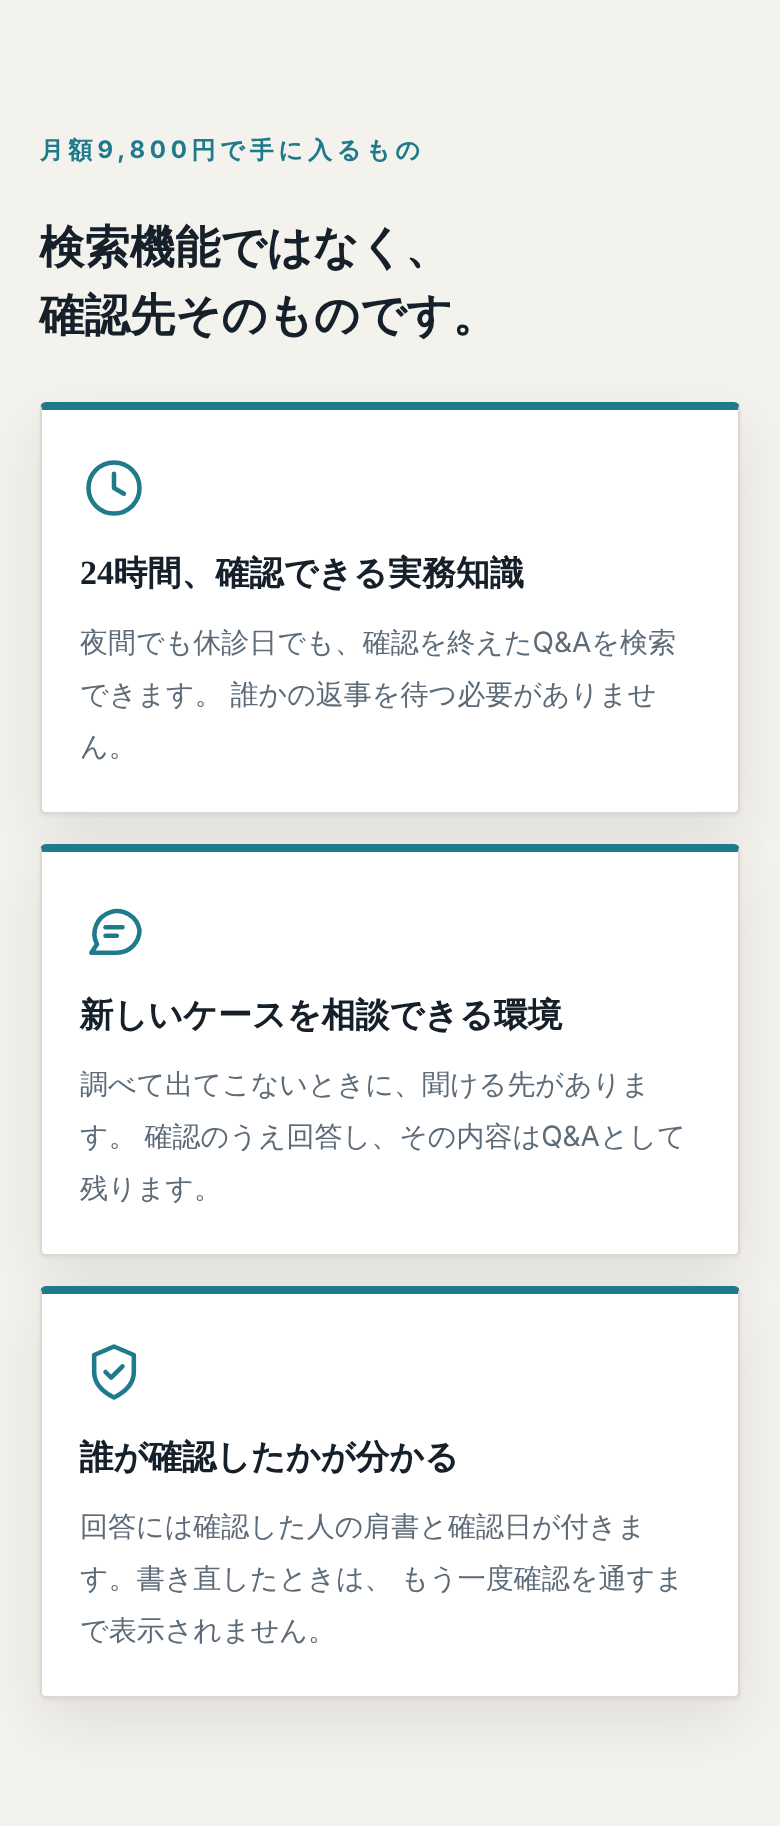
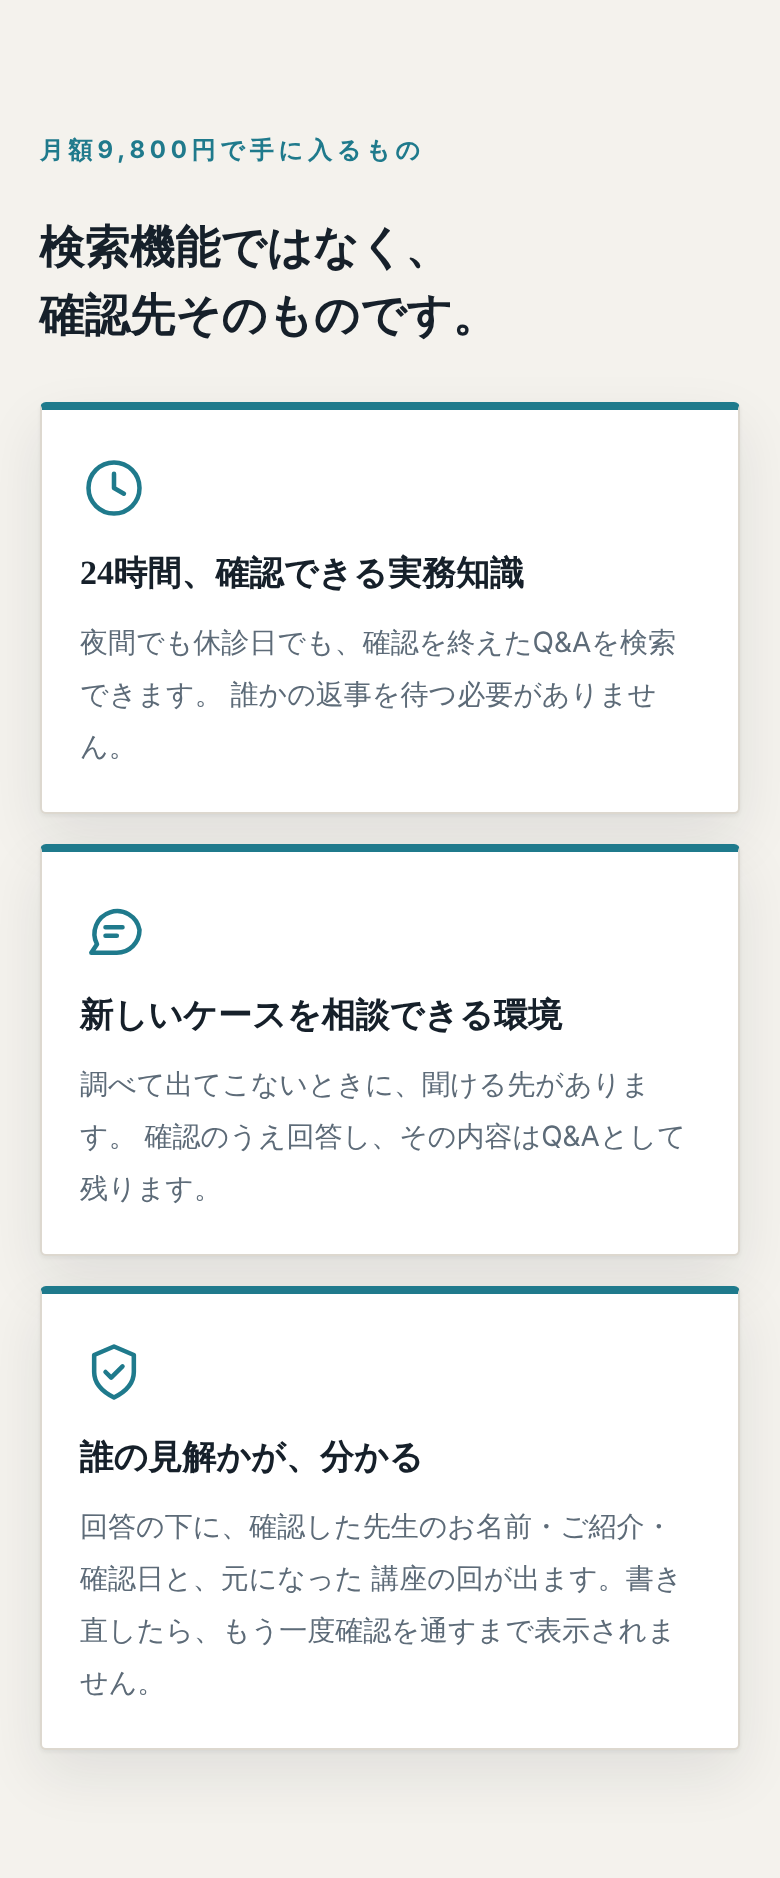
design+docs: 監修者の表示と、専門家のご紹介を事実にもとづいて書き分けた
元の講座が行政書士の先生の話であること、紹介をすでに行っていること、
手数料を受け取っていないことが分かったため、記載を改めた。

募集ページ（design/lp-preview.html）:
- 回答の下に監修者のプロフィールを出す形にした。お名前・肩書・事務所名・
  ご紹介・「✓ この回答を確認済み」・出典（講座の回と話した先生）・確認日
- 専門家とのつながりの節を3つに分けた。「いま行っていること（ご紹介・
  手数料なし・契約は先生と直接）」と「これから（未確定）」2件
- 手数料を受け取らないことを緑の枠で明示。これは信頼の材料であると同時に、
  弁護士法27条の論点を避ける構造でもある
- FAQに「回答は誰が書いているのですか」を追加
- 価値の3つめを「誰の見解かが、分かる」に変更

docs/legal-todo.md:
- 事実として確認できた3点と、未確定の2点を分けて記載
- 出典と確認者を必ず分けること。元動画が行政書士の話であることと、
  その先生が回答文を確認したことは別。後者でなければ確認済みと表示しない
- 既存の answer_version / approved_version の仕組みが、書き直し後の
  再確認をすでに強制していることを記載
- 監修者表示に必要なシステム側の追加5件（本体は未着手）

本体・決済は未変更。

Claude-Session: https://claude.ai/code/session_01XxX8KomyP5X86hhJgAnHyP

Changed region(s): [[0.0308, 0.0624, 0.9538, 0.9053]]

diff --git a/jiko-desk/design/lp-preview.html b/jiko-desk/design/lp-preview.html
@@ -173,6 +173,23 @@ h1 u, h2 u, h3 u, .turn u, .lead u { display: inline-block; text-decoration: non
 .screen-cap { font-size: 12px; color: var(--on-navy-s); text-align: center;
   margin-top: 13px; line-height: 1.7; }
 
+/* 回答の下に出す監修者。ネット記事の著者プロフィールと同じ役割 */
+.byline { margin-top: 13px; padding-top: 13px; border-top: 1px solid var(--rule);
+  display: flex; gap: 12px; align-items: flex-start; }
+.byline .av { flex: 0 0 46px; width: 46px; height: 46px; border-radius: 50%;
+  background: var(--tab); border: 1px solid var(--rule); display: grid; place-items: center; }
+.byline .av svg { width: 22px; height: 22px; stroke: var(--ink-soft); fill: none; stroke-width: 1.5; }
+.byline .who { flex: 1; min-width: 0; }
+.byline .nm { font-family: var(--mincho); font-size: 15px; font-weight: 700; line-height: 1.4; }
+.vchk { display: inline-block; font-size: 11.5px; font-weight: 700; color: var(--ok);
+  border: 1.5px solid var(--ok); border-radius: 3px; padding: 2px 8px; margin-top: 7px;
+  letter-spacing: .03em; white-space: nowrap; }
+.byline .of { font-size: 11.5px; color: var(--ink-soft); margin-top: 3px; }
+.byline .pr { font-size: 12.5px; color: var(--ink-soft); line-height: 1.75; margin-top: 7px; }
+.srcline { margin-top: 11px; font-size: 11.5px; color: var(--ink-soft); line-height: 1.75;
+  background: var(--paper); border-radius: 6px; padding: 9px 11px; }
+.srcline b { color: var(--ink); font-weight: 700; }
+
 /* 近いQ&Aの一覧。回答本文は出さず、質問だけをリンクで見せる */
 .rel { display: grid; gap: 8px; }
 .rel-h { font-size: 11.5px; font-weight: 700; letter-spacing: .1em; color: var(--ink-soft);
@@ -228,7 +245,12 @@ h1 u, h2 u, h3 u, .turn u, .lead u { display: inline-block; text-decoration: non
 
 .plan-item + .plan-item { margin-top: 24px; padding-top: 22px; border-top: 1px solid var(--rule); }
 .plan-item .pnum { display: inline-block; font-size: 11.5px; font-weight: 700;
-  letter-spacing: .14em; color: var(--teal); margin-bottom: 7px; }
+  letter-spacing: .1em; color: var(--todo); border: 1px solid var(--todo);
+  border-radius: 3px; padding: 2px 9px; margin-bottom: 9px; }
+.plan-item .pnum.now { color: var(--ok); border-color: var(--ok); }
+.plan-item .nofee { background: rgba(44,107,47,.07); border-left: 3px solid var(--ok);
+  border-radius: 0 6px 6px 0; padding: 12px 13px; margin-top: 12px; }
+.plan-item p b { color: var(--ink); }
 .plan-item h3 { font-size: 18px; line-height: 1.55; margin-bottom: 10px; }
 .plan-item p { font-size: 14.5px; line-height: 1.9; }
 .plan-item p + p { margin-top: 11px; }
@@ -388,7 +410,8 @@ footer .co { font-size: 12px; }
           <div>
             <h3><u>確認を終えた回答が、</u><u>結論から出る</u></h3>
             <p>長い解説を読み進める必要はありません。結論が先に来ます。
-               確認を終えたものだけが出ます。誰が確認したかも表示されます。</p>
+               確認を終えたものだけが出ます。回答の下には、確認した先生のお名前と
+               ご紹介、そして元になった講座の回が出ます。</p>
           </div>
         </div>
         <div class="screen">
@@ -398,8 +421,19 @@ footer .co { font-size: 12px; }
               <div class="qt">保険会社から「そろそろ打ち切り」と言われました。すぐに施術をやめるべきですか。</div>
               <div class="at">保険会社の打ち切りの連絡は、施術の必要性の医学的な判断ではありません。
                 まず主治医の見解を確認し、必要であれば施術継続の理由を書面で…</div>
-              <span class="stamp"><svg viewBox="0 0 24 24"><path d="M4 12.5l5 5L20 6.5"/></svg>行政書士 確認済み</span>
-              <div class="when">〈確認者名〉／確認日 2026-10-02</div>
+              <div class="byline">
+                <div class="av"><svg viewBox="0 0 24 24"><circle cx="12" cy="9" r="3.4"/><path d="M5 20a7 7 0 0 1 14 0"/></svg></div>
+                <div class="who">
+                  <div class="nm">〈確認した先生のお名前〉</div>
+                  <div class="of">行政書士／〈事務所名〉</div>
+                  <div><span class="vchk">✓ この回答を確認済み</span></div>
+                  <div class="pr">〈この先生の紹介文。交通事故分野の経歴を2行程度〉</div>
+                </div>
+              </div>
+              <div class="srcline">
+                <b>出典</b> 交通事故実務講座 第12回（〈話した先生のお名前〉）<br>
+                <b>確認日</b> 2026-10-02
+              </div>
             </div>
             <div class="q-field ghost">
               <svg viewBox="0 0 24 24"><rect x="2.5" y="5" width="14" height="14" rx="2.5"/><path d="M16.5 10l5-3v10l-5-3z"/></svg>
@@ -407,7 +441,7 @@ footer .co { font-size: 12px; }
             </div>
           </div>
         </div>
-        <p class="screen-cap">回答文を書き直したときは、もう一度確認を通すまでこの表示は出ません。</p>
+        <p class="screen-cap">回答文を書き直したときは、確認した先生にもう一度通すまで、この表示は出ません。</p>
       </div>
 
       <div class="flow-step">
@@ -468,9 +502,9 @@ footer .co { font-size: 12px; }
       </div>
       <div class="value">
         <svg class="vi" viewBox="0 0 24 24"><path d="M12 3l7 3v6c0 4-3 7-7 9-4-2-7-5-7-9V6z"/><path d="M9 12l2 2 4-4"/></svg>
-        <h3>誰が確認したかが分かる</h3>
-        <p>回答には確認した人の肩書と確認日が付きます。書き直したときは、
-           もう一度確認を通すまで表示されません。</p>
+        <h3>誰の見解かが、分かる</h3>
+        <p>回答の下に、確認した先生のお名前・ご紹介・確認日と、元になった
+           講座の回が出ます。書き直したら、もう一度確認を通すまで表示されません。</p>
       </div>
     </div>
   </div>
@@ -517,47 +551,51 @@ footer .co { font-size: 12px; }
   </div>
 </section>
 
-<!-- ───── 構想 ───── -->
+<!-- ───── 専門家とのつながり ───── -->
 <section class="band">
   <div class="inner">
     <div class="sec-head">
-      <span class="plan-note">構想中・未確定</span>
-      <h2><u>専門家の先生と、</u><u>つながれる場をつくりたい。</u></h2>
-      <p class="sub">これから進めたいと考えていることです。
-        いずれも決まっていないため、現時点の会員特典ではありません。</p>
+      <p class="eyebrow">専門家の先生とのつながり</p>
+      <h2><u>調べて終わりでは、</u><u>ないようにしたい。</u></h2>
+      <p class="sub">Q&amp;Aや相談では収まらず、実際に手続きや交渉を任せたい場面があります。
+        いま行っていることと、これから進めたいことを分けて書きます。</p>
     </div>
 
     <div class="plan-box">
       <div class="plan-item">
-        <span class="pnum">構想 1</span>
-        <h3>実務解説と、学び合いの場</h3>
+        <span class="pnum now">いま行っていること</span>
+        <h3>行政書士・弁護士の先生のご紹介</h3>
         <p>
-          交通事故の実務には、整骨院の側からは見えにくい部分があります。
-          弁護士・行政書士の先生に現場で実際に生まれた疑問を知っていただき、
-          実務解説にご協力いただける関係をつくれないかと考えています。
+          ご希望があれば、交通事故に詳しい行政書士・弁護士の先生をご紹介しています。
+          これは交通事故実務デスクの開始前から行っていることです。
         </p>
-        <p>
-          整骨院の先生にとっては、知識だけでなく、考え方や人柄を知るきっかけに。
-          専門家の先生にとっては、普段なかなか聞けない現場の声に触れる機会に。
+        <p class="nofee">
+          <b>ご紹介にあたって、当社が手数料や紹介料を受け取ることはありません。</b>
+          ご依頼の契約は、先生と直接お結びいただきます。当社は間に入りません。
         </p>
       </div>
 
       <div class="plan-item">
-        <span class="pnum">構想 2</span>
-        <h3>依頼したいときの、つなぎ先</h3>
+        <span class="pnum">これから（未確定）</span>
+        <h3>会員の先生向けの料金</h3>
         <p>
-          Q&amp;Aや相談では収まらず、実際に手続きや交渉を任せたい場面があります。
-          そのときに、交通事故に詳しい行政書士・弁護士の先生をご紹介できる形を
-          つくれないかと考えています。会員の先生向けの料金を設けられるかどうかも、
-          あわせて相談していきます。
+          会員の先生がご依頼される場合の料金について、先生方と相談しているところです。
+          <b>まだ決まっておらず、月額料金には含まれていません。</b>決まり次第ご案内します。
         </p>
       </div>
 
-      <div class="undecided">
-        <b>どちらも構想であり、会員特典ではありません。</b><br>
-        ご協力いただく先生、開催の頻度、参加の条件、ご紹介の方法、料金は、
-        いずれもまだ決まっていません。月額料金に、これらは含まれていません。
-        内容が決まりましたら、あらためてご案内します。
+      <div class="plan-item">
+        <span class="pnum">これから（未確定）</span>
+        <h3>実務解説と、学び合いの場</h3>
+        <p>
+          現場で実際に生まれた疑問をテーマに、専門家の先生と学び合える場をつくれないかと
+          考えています。整骨院の先生にとっては考え方や人柄を知るきっかけに、
+          専門家の先生にとっては普段聞けない現場の声に触れる機会に。
+        </p>
+        <p>
+          <b>ご協力いただく先生、開催の頻度、参加の条件は、いずれも未定です。</b>
+          月額料金に、この場への参加は含まれていません。
+        </p>
       </div>
     </div>
   </div>
@@ -641,9 +679,16 @@ footer .co { font-size: 12px; }
           確認が済み次第、回答をお送りし、Q&amp;Aにも追加します。</div>
       </details>
       <details>
+        <summary>回答は誰が書いているのですか。</summary>
+        <div class="ans">もとになっているのは、交通事故実務講座で先生方にお話しいただいた内容です。
+          それを実務で使える形に整理し、お話しいただいた先生ご本人に確認を通したうえで公開しています。
+          回答の下に、確認した先生のお名前とご紹介、元になった講座の回を表示しています。</div>
+      </details>
+      <details>
         <summary>AIが勝手に答えを作ることはありませんか。</summary>
         <div class="ans">ありません。検索の結果として出るのは、確認を終えた回答の本文そのものです。
-          回答文をあとから書き直した場合は、もう一度確認を通すまで表示されません。</div>
+          AIは回答を書く作業の下ごしらえに使いますが、公開されるのは先生の確認を通った文章だけです。
+          本文をあとから書き直した場合は、もう一度確認を通すまで表示されません。</div>
       </details>
       <details>
         <summary>解約はどうすればよいですか。</summary>
@@ -658,7 +703,8 @@ footer .co { font-size: 12px; }
       <details>
         <summary>弁護士・行政書士ですが、協力することはできますか。</summary>
         <div class="ans">現場で実際に生まれた疑問をテーマに、学び合える場をつくりたいと考えています。
-          あわせて、会員の先生からご依頼が出た際のつなぎ先についてもご相談したいと考えています。
+          あわせて、ご依頼が出た際のご紹介先についてもご相談したいと考えています。
+          ご紹介にあたって当社が手数料をいただくことはありません。
           関心のある先生は info@famitect.com までご連絡ください。
           具体的な内容や条件は、ご相談しながら決めていきます。</div>
       </details>
@@ -682,9 +728,10 @@ footer .co { font-size: 12px; }
     <p>※本サービスで提供する情報は一般的な実務の参考情報です。個別の事案に対する法律判断・
        保険金請求の可否・医学的判断を保証するものではありません。個別の判断が必要な場合は、
        弁護士・行政書士・医師等の有資格者にご相談ください。</p>
-    <p>※専門家との実務解説・交流、および専門家のご紹介は、いずれも構想段階です。
-       会員特典として確定したものではなく、月額料金には含まれていません。
-       ご紹介の方法や料金が決まり次第、あらためてご案内します。</p>
+    <p>※行政書士・弁護士の先生のご紹介は、交通事故実務デスクの会員でなくても承っています。
+       当社が手数料・紹介料を受け取ることはありません。ご依頼の契約は先生と直接お結びいただきます。</p>
+    <p>※会員向けの料金、および実務解説・交流の場は、いずれも未確定です。
+       会員特典として確定したものではなく、月額料金には含まれていません。</p>
     <p>※画面はすべて開発中のもので、表示内容は実際のQ&amp;Aではありません。</p>
   </div>
 </div>

diff --git a/jiko-desk/docs/legal-todo.md b/jiko-desk/docs/legal-todo.md
@@ -116,7 +116,90 @@
 
 ---
 
-## ★ 「会員価格で行政書士・弁護士へ依頼できる」について　2026-10-13 追加
+## 専門家のご紹介について　2026-10-13（事実関係の確認後に改訂）
+
+### 事実として確認できたこと
+
+- **行政書士・弁護士の先生のご紹介は、すでに行っている**（交通事故実務デスクの開始前から）
+- **当社は手数料・紹介料を受け取っていない**
+- ご依頼の契約は、会員と先生が直接結ぶ。当社は間に入らない
+
+この3点は募集ページに事実として記載した。手数料を受け取らない形は、
+弁護士法27条（非弁提携）の論点を避けるうえで最も安全な構造である。
+**この形を変えない限り、紹介そのものは問題になりにくい。**
+
+### まだ決まっていないこと（募集ページでは「これから（未確定）」と明示）
+
+| | 決めること | 誰が |
+|---|---|---|
+| 1 | 会員の先生向けの料金を設けるか、いくらにするか | 先生と協議 |
+| 2 | 実務解説・交流の場の協力者・頻度・参加条件 | 先生と協議 |
+
+### 先に先生本人に確認すべきこと
+
+弁護士・行政書士の側には、広告や料金についての職務上のルールがある。
+当方が決められる話ではないため、**必ず先生本人に確認すること。**
+
+1. 有料の会員サービスの会員向けに割引料金を設けることは、先生の側の規程上問題ないか
+2. 当社が募集ページでその旨を案内することは、先生の側の広告規制上問題ないか
+
+### 維持すべき3つの線
+
+- **紹介料・手数料を受け取らない。** いまの形を変えない
+- **月額9,800円の対価に「依頼の割引」を含めない。** 含めると、月額料金の一部が
+  法律事務の対価と評価される余地が生まれる。募集ページには「月額料金には
+  含まれていません」と明記済み
+- **「交通事故実務デスクが代理して交渉します」とは書かない**（弁護士法72条）
+
+※ 上記は一般的な論点の整理であり、法的な結論ではない。
+　 会員向け料金を設ける段階で、弁護士に全体の構造を確認することを勧める。
+
+---
+
+## 回答の監修者表示について　2026-10-13 追加
+
+元になっている講座は行政書士の先生が話した内容であることが分かった。
+これを受けて、回答に**監修者のプロフィール（ネット記事の著者欄と同じ形）**を
+出す方針とし、募集ページの画面例に反映した。
+
+### 出す項目
+
+- 確認した先生のお名前・肩書・事務所名
+- その先生のご紹介（2行程度）
+- 「✓ この回答を確認済み」
+- **出典**（元になった講座の回と、話した先生のお名前）
+- 確認日
+
+### ★ 必ず分けること：出典 と 確認者
+
+**「元動画が行政書士の話」であることと、「行政書士がこの回答文を確認した」ことは
+別である。** 講座の内容を実務向けに整理し直した文章は、要約の過程で元の話と
+ずれる可能性がある。
+
+したがって「行政書士 確認済み」と表示してよいのは、
+**その先生が、公開するその回答文そのものを確認した場合だけ**である。
+元動画が行政書士の話だというだけでこの表示を出すと、景品表示法の優良誤認にあたる。
+
+幸い、システム側はこの条件をすでに満たしている。回答文を書き直すと
+`answer_version` が変わり、`approved_version` と一致しなくなるため、
+**確認を取り直すまで表示が消える。**
+
+### システム側に必要な追加（本体は未着手）
+
+| | 追加するもの |
+|---|---|
+| 1 | 監修者テーブル（氏名・肩書・事務所名・紹介文・写真） |
+| 2 | ナレッジごとに監修者を紐づける |
+| 3 | 出典（講座の回・話した先生）の欄 |
+| 4 | 会員画面にプロフィール欄を表示 |
+| 5 | 管理画面で監修者を選べるようにする |
+
+いずれも既存の `internal_reviewer` と承認の仕組みの延長で入る。
+本体の変更は、募集ページの方向性が固まってから着手する。
+
+---
+
+## 〔旧〕会員価格について（上の節に統合。手数料を取っていないことが確認できたため改訂）
 
 募集ページに載せたいという話が出たが、**確定情報ではないため「構想2」として
 構想欄に入れた。会員特典としては表示していない。** 月額料金に含まれないことも明記した。
